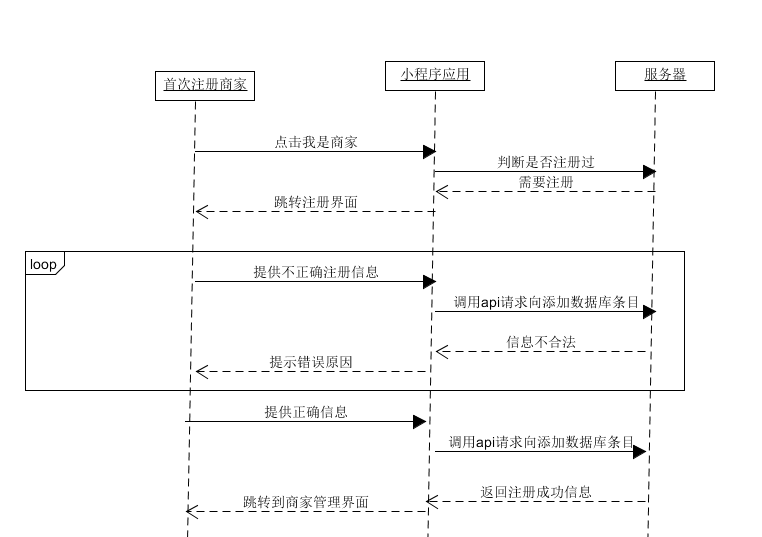
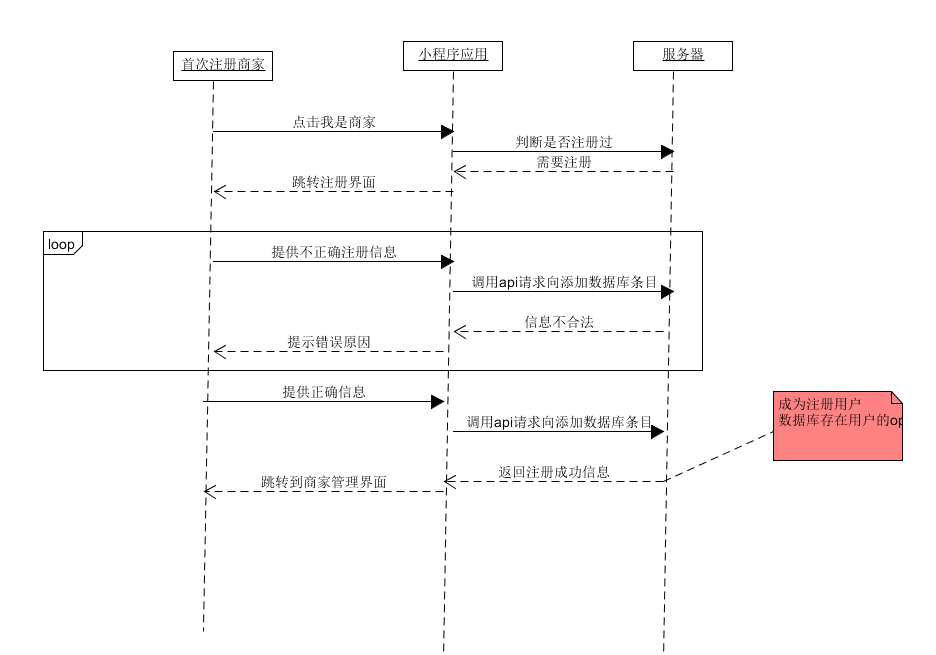
jx建模

diff --git a/README.md b/README.md
@@ -63,7 +63,6 @@
 - 6.5 System Sequence Diagram(功能模型)
     - [15331265-jiaxin96-商家注册](./doc/system_sequence_diagram/register.png)
     - [15331265-jiaxin96-商家登录](./doc/system_sequence_diagram/login.png)
-    - 
 
 ## Design（设计）
 - 7.1 UI design
@@ -88,8 +87,11 @@
 - [2018/4/17 会议记录](./meet_recording/2018-4-17.md)
 
 
-## 建模练习
+## 建模练习 （外组）
 - [有鱼记账APP业务描述](./doc/ModelingPractice/XX1-有鱼记账APP业务描述.pdf)
+
+## 建模报告 （本组）
+- [15331265-jiaxin96](./doc/midTest/rjx.pdf)
 
 ## 成员报告
 - [15331265-jiaxin96-nodejs后台技术报告](http://jiaxin.online/2018/04/14/nodejs%E5%AD%A6%E4%B9%A01/)
